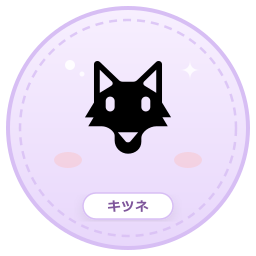
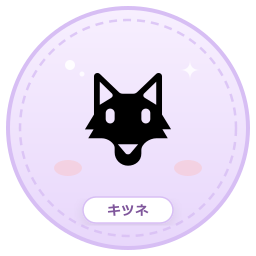
style: 動物イラストをさらに下方オフセットし視覚的重心を中心化

diff --git a/scripts/generate-animal-icons.js b/scripts/generate-animal-icons.js
@@ -67,16 +67,16 @@ async function generate() {
         <path d="M190 60 Q190 70 200 70 Q190 70 190 80 Q190 70 180 70 Q190 70 190 60 Z" fill="#FFFFFF" opacity="0.8" />
 
         <!-- ほんのりピンクのほっぺチーク（イラスト位置に合わせて下方向へオフセット） -->
-        <ellipse cx="68" cy="160" rx="14" ry="8" fill="#FFB7B2" opacity="0.35" />
-        <ellipse cx="188" cy="160" rx="14" ry="8" fill="#FFB7B2" opacity="0.35" />
+        <ellipse cx="68" cy="168" rx="14" ry="8" fill="#FFB7B2" opacity="0.35" />
+        <ellipse cx="188" cy="168" rx="14" ry="8" fill="#FFB7B2" opacity="0.35" />
 
-        <!-- 中央の動物絵文字（視覚的な上下余白が完全に均等になるよう y=156 へ大きく下方オフセット） -->
-        <text x="128" y="156" font-size="98" text-anchor="middle" dominant-baseline="central">
+        <!-- 中央の動物絵文字（上下余白が完全に均等になるよう y=168 へさらに下方オフセット） -->
+        <text x="128" y="168" font-size="98" text-anchor="middle" dominant-baseline="central">
           ${item.emoji}
         </text>
         
         <!-- ゆるかわ下部ラベルバッジ（マシュマロ・もっちりピルバッジ） -->
-        <g transform="translate(128, 206)" filter="url(#soft-shadow)">
+        <g transform="translate(128, 210)" filter="url(#soft-shadow)">
           <rect x="-45" y="-13" width="90" height="26" rx="13" fill="${item.badgeBg}" stroke="${item.border}" stroke-width="1.5" />
           <text x="0" y="5" font-family="'Hiragino Maru Gothic ProN', 'Rounded Mplus 1c', 'Meiryo', sans-serif" font-size="13" font-weight="900" fill="${item.badgeText}" text-anchor="middle" letter-spacing="1">
             ${item.label}
